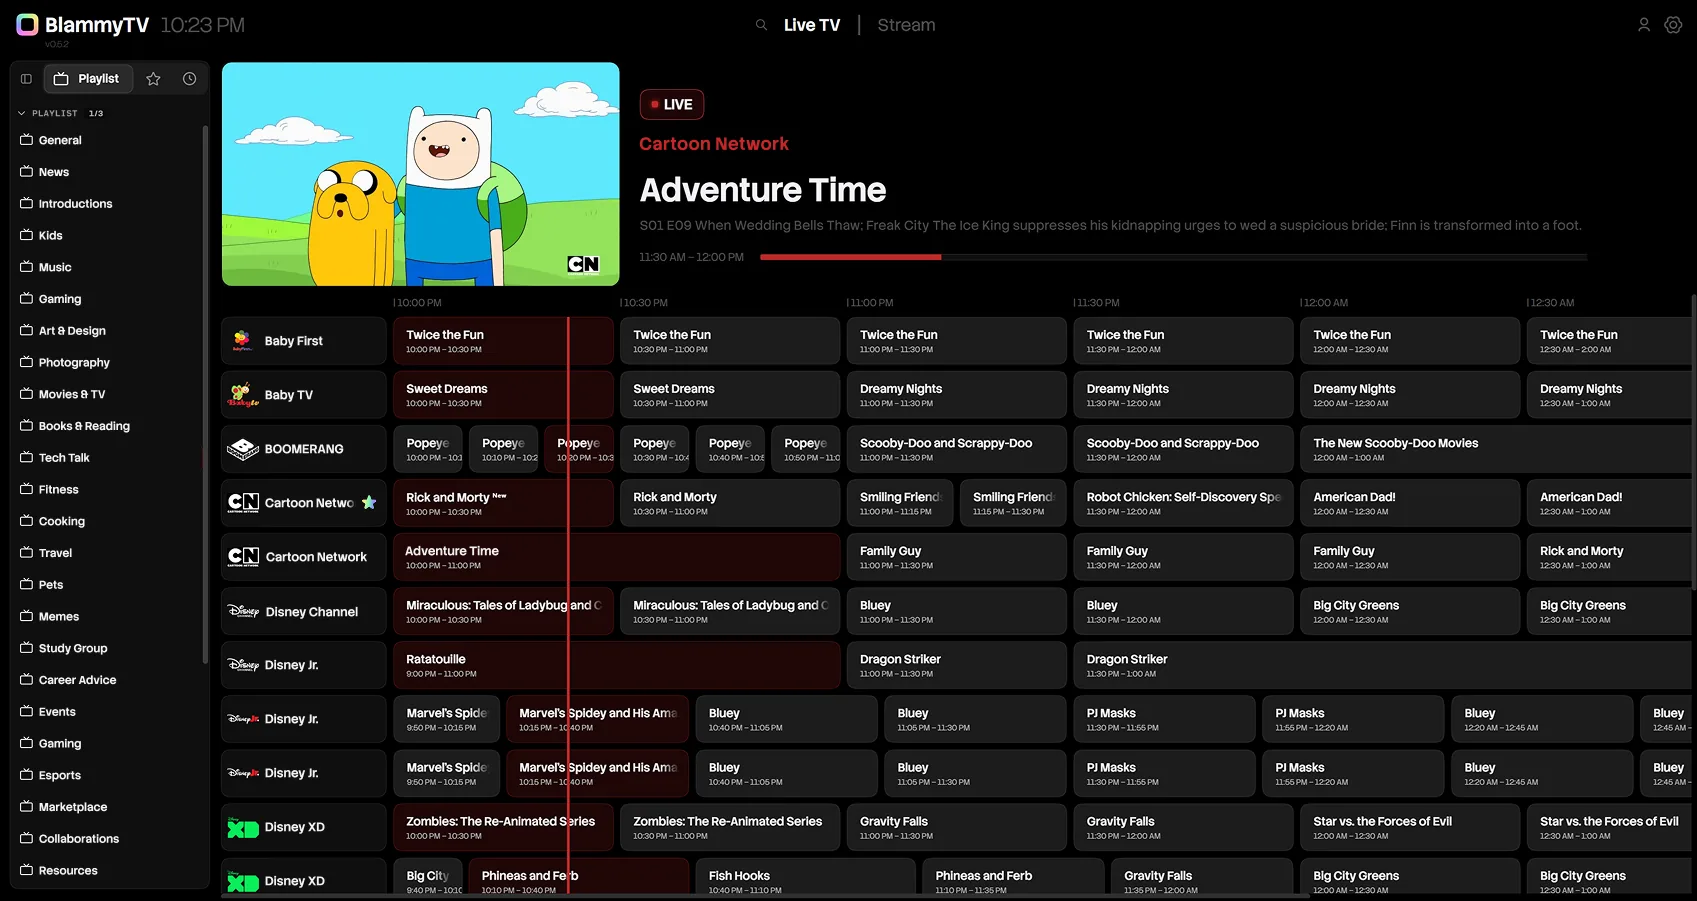
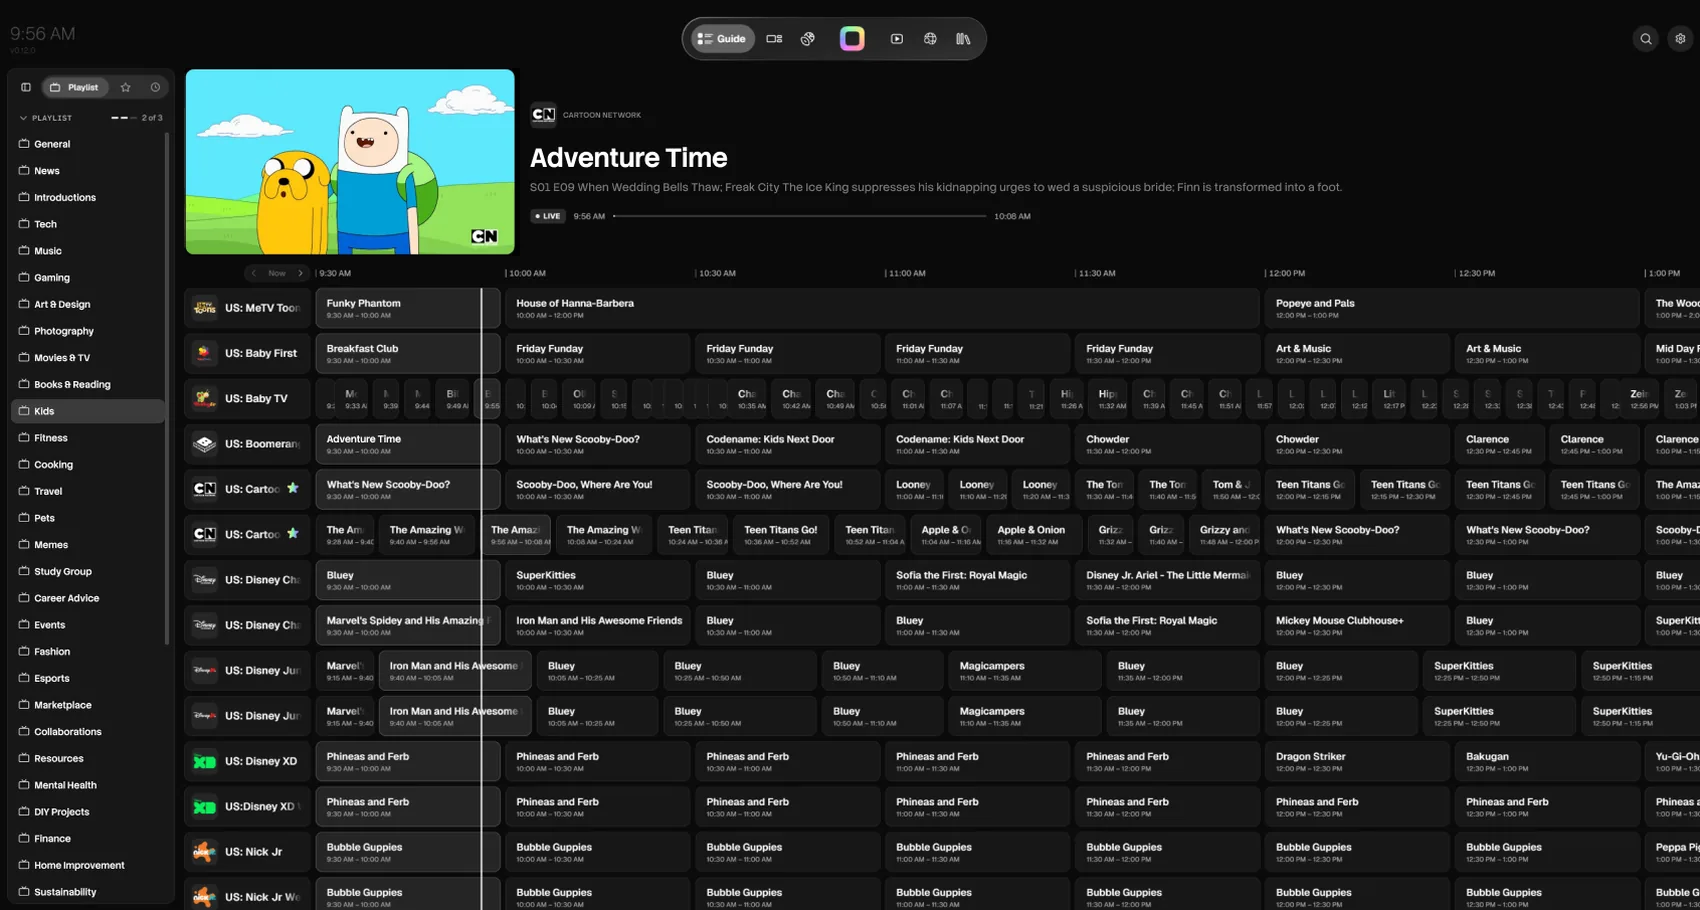
site: new screenshots, and Multi-View and Sports get chapters
Adam's 0.12 screenshots replace the Guide, Stream home and Discover shots,
with the window's title bar and scrollbar cropped off. Multi-View and
Sports get chapters of their own, and the Stream chapter turns over to a
title's page with its sources, the way Live TV used to turn over to the
theater. That v0.5 theater shot goes: it still showed the old header.

The player shot stays. Nothing newer was sent, and it shows no header to
date it.

Claude-Session: https://claude.ai/code/session_011Yo6AETvXVbEWcgiXD67kC

diff --git a/services/site/index.html b/services/site/index.html
@@ -189,7 +189,7 @@ html:not(.scrub) .feat figure {
 }
 html:not(.scrub) .feat img { width: 100%; height: auto; border-radius: clamp(10px, 1.5vw, 18px); }
 html:not(.scrub) .feat img + img { display: none; }
-html:not(.scrub) .board { aspect-ratio: 1697 / 901; border-radius: clamp(10px, 1.5vw, 18px); }
+html:not(.scrub) .board { aspect-ratio: 1700 / 910; border-radius: clamp(10px, 1.5vw, 18px); }
 html:not(.scrub) .cap { margin-top: 28px; }
 
 /* Your Colors: a drawing (type and swatches), never dressed up as a screenshot. */
@@ -377,21 +377,48 @@ footer { border-top: 1px solid rgba(255, 255, 255, 0.1); padding: 40px var(--gr)
       <ol class="feat-list">
         <li class="feat" data-name="Live TV">
           <figure>
-            <img src="assets/Guide.webp" width="1697" height="901" decoding="async" alt="The Live TV guide, with a channel playing above it">
-            <img src="assets/Guide_Theater.webp" width="1697" height="901" decoding="async" alt="A channel playing in theater mode beside the channel list">
+            <img src="assets/Guide.webp" width="1700" height="910" decoding="async" alt="The Live TV guide, with a channel playing above it">
           </figure>
           <div class="cap" data-plate>
             <h2>Live TV with a Real Guide</h2>
             <p>Every channel you add lands in one guide. See what's on now and next, scroll a whole day ahead, and star the channels you watch most.</p>
           </div>
         </li>
+        <li class="feat" data-name="Multi-View">
+          <figure>
+            <img src="assets/Multi_View.webp" width="1700" height="910" decoding="async" alt="Multi-View with one big channel and two smaller ones beside it">
+          </figure>
+          <div class="cap" data-plate>
+            <h2>Up to Four Channels at Once</h2>
+            <p>Right-click a channel in the Guide to add it. Watch them in a grid, or make one big and keep the rest beside it.</p>
+          </div>
+        </li>
+        <li class="feat" data-name="Sports">
+          <figure>
+            <img src="assets/Sports.webp" width="1700" height="910" decoding="async" alt="Sports, with today's games and a list of leagues down the side">
+          </figure>
+          <div class="cap" data-plate>
+            <h2>Find the Game</h2>
+            <p>See today's games for the leagues you follow, with the channels showing them.</p>
+          </div>
+        </li>
         <li class="feat" data-name="Stream">
           <figure>
-            <img src="assets/Stream_Home.webp" width="1697" height="901" decoding="async" alt="The Stream home page, with a hero slider over Continue Watching">
+            <img src="assets/Stream_Home.webp" width="1700" height="910" decoding="async" alt="The Stream home page, with a hero slider above a row of anime">
+            <img src="assets/Stream_Title.webp" width="1700" height="910" decoding="async" alt="A movie's page, with its sources listed down the right side">
           </figure>
           <div class="cap" data-plate>
             <h2>Movies and Shows</h2>
             <p>Sign in to AIOStreams or your own Jellyfin server, and your movies and shows fill the home page. Continue Watching keeps your place.</p>
+          </div>
+        </li>
+        <li class="feat" data-name="Discover">
+          <figure>
+            <img src="assets/Stream_Discover.webp" width="1700" height="910" decoding="async" alt="Discover, with genre tiles above a grid of shows">
+          </figure>
+          <div class="cap" data-plate>
+            <h2>Find Something to Watch</h2>
+            <p>Browse your catalogs by genre, or see what's popular right now.</p>
           </div>
         </li>
         <li class="feat" data-name="Player">
@@ -401,15 +428,6 @@ footer { border-top: 1px solid rgba(255, 255, 255, 0.1); padding: 40px var(--gr)
           <div class="cap" data-plate>
             <h2>A Real Player, Built In</h2>
             <p>Everything plays in mpv, built right in. Surround sound works, and Skip Intro jumps past the opening.</p>
-          </div>
-        </li>
-        <li class="feat" data-name="Discover">
-          <figure>
-            <img src="assets/Stream_Discover.webp" width="1697" height="901" decoding="async" alt="Discover, with genre tiles above a row of popular titles">
-          </figure>
-          <div class="cap" data-plate>
-            <h2>Find Something to Watch</h2>
-            <p>Browse your catalogs by genre, or see what's popular right now.</p>
           </div>
         </li>
         <li class="feat" data-name="Your Colors">
@@ -555,7 +573,7 @@ footer { border-top: 1px solid rgba(255, 255, 255, 0.1); padding: 40px var(--gr)
   };
   const REV = 1, FEAT = 1, TAIL = 0.15;
   const P_BOOT = KNOTS[KNOTS.length - 1][0], P_REV = P_BOOT + REV, P_END = P_REV + FEAT * feats.length, TOTAL = P_END + TAIL;
-  const RATIO = 1697 / 901;
+  const RATIO = 1700 / 910;
 
   root.classList.add("scrub");
 
@@ -576,7 +594,7 @@ footer { border-top: 1px solid rgba(255, 255, 255, 0.1); padding: 40px var(--gr)
     const b = Math.round(clamp(W * 0.011, 8, 16));
     // The bar sits 16px inside the screen's bottom edge; captions keep 32px above it.
     const capH = narrow ? 210 : 104, ctlH = 36.5 * s + 16 + 38 + 32, topPad = narrow ? 64 : 48, gap = narrow ? 20 : 28;
-    let ws = Math.min(W - 2 * g, 1697 + 2 * b) - 2 * b;   // up to the screenshots' own width
+    let ws = Math.min(W - 2 * g, 1700 + 2 * b) - 2 * b;   // up to the screenshots' own width
     ws = Math.max(160, Math.min(ws, (H - topPad - capH - ctlH - gap - 2 * b) * RATIO));
     const hs = ws / RATIO, wo = ws + 2 * b, ho = hs + 2 * b;
     const top = topPad + Math.max(0, (H - topPad - ctlH - (ho + gap + capH)) / 2);
